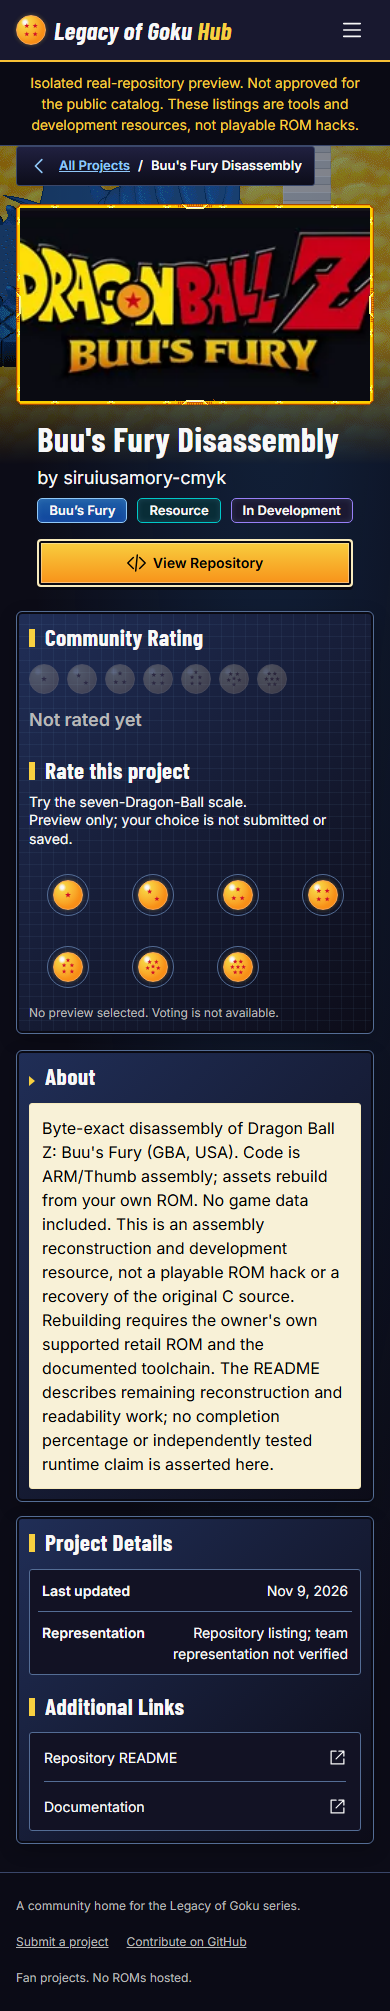
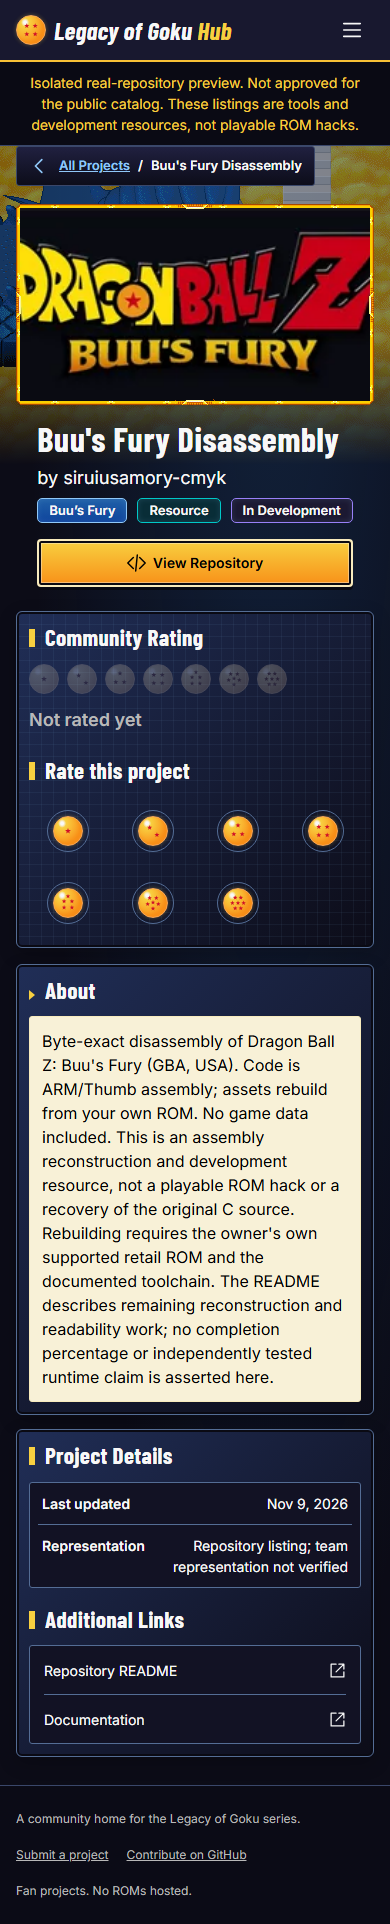
Simplify rating selector copy and center its heading

diff --git a/website/src/styles/site.css b/website/src/styles/site.css
@@ -818,19 +818,17 @@ dd a svg {
   display: grid;
   grid-template-columns: 1fr auto;
   gap: 0 24px;
-  align-items: start;
+  align-items: center;
+  align-self: stretch;
   min-width: 0;
 }
 .rating-selector h2 {
   grid-column: 1;
-}
-.rating-selector>p {
-  font-size: 14px;
-  max-width: 32ch;
+  margin: 0;
 }
 .rating-selector fieldset {
   grid-column: 2;
-  grid-row: 1/4;
+  grid-row: 1;
   align-self: center;
   border: 0;
   padding: 0;
@@ -882,13 +880,6 @@ dd a svg {
 }
 .rating-option:hover .rating-choice {
   border-color: var(--ice);
-}
-.rating-selector .rating-preview-result {
-  grid-column: 1;
-  margin-top: 8px;
-  max-width: none;
-  color: var(--muted);
-  font-size: 12px;
 }
 .detail-columns {
   display: grid;
@@ -1602,18 +1593,6 @@ dd a svg {
 }
 .detail-rating {
   padding-block: 12px;
-}
-.rating-selector h2 {
-  margin-bottom: 8px;
-}
-.rating-selector>p {
-  font-size: 13px;
-  line-height: 1.2;
-  max-width: none;
-}
-.rating-selector .rating-preview-result {
-  margin-top: 6px;
-  font-size: 11px;
 }
 .rating-choice {
   border: 0;

diff --git a/e2e-real/identity.pw.js b/e2e-real/identity.pw.js
@@ -93,6 +93,9 @@ test('portrait frames have transparent corner surfaces and one complete centered
       expect(Math.abs(offset)).toBeLessThan(1);
     }
     if(route!=='/'&&width>900){
+      await expect(page.locator('.rating-selector')).toHaveText('Rate this project');
+      const headingOffset=await page.locator('.rating-selector h2').evaluate(e=>{const r=e.getBoundingClientRect(),p=e.closest('.detail-rating').getBoundingClientRect();return r.y+r.height/2-p.y-p.height/2;});
+      expect(Math.abs(headingOffset)).toBeLessThan(.02);
       for(const ball of await page.locator('.rating-options .dragon-ball').all()){
         const offset=await ball.evaluate(e=>{const r=e.getBoundingClientRect(),p=e.closest('.detail-rating').getBoundingClientRect();return r.y+r.height/2-p.y-p.height/2;});
         expect(Math.abs(offset)).toBeLessThan(.02);

diff --git a/e2e/website.pw.js b/e2e/website.pw.js
@@ -41,7 +41,7 @@ test('seven-ball selection supports keyboard and pointer without persistence or 
   const first=page.getByRole('radio',{name:'1 Dragon Ball',exact:true});await first.focus();await page.keyboard.press('Space');await page.keyboard.press('ArrowRight');
   await expect(page.getByRole('radio',{name:'2 Dragon Balls',exact:true})).toBeChecked();
   await page.getByRole('radio',{name:'7 Dragon Balls',exact:true}).check();
-  await expect(page.locator('.rating-preview-result')).toHaveText('Preview: 7 of 7 Dragon Balls. Not submitted or saved.');
+  await expect(page.locator('.rating-selector')).toHaveText('Rate this project');
   expect(requests).toEqual([]);expect(await page.evaluate(()=>Object.keys(localStorage))).toEqual([]);
   await page.reload();await expect(page.getByRole('radio',{checked:true})).toHaveCount(0);
 });

diff --git a/docs/frontend/visual-identity/REFINEMENT.md b/docs/frontend/visual-identity/REFINEMENT.md
@@ -84,3 +84,5 @@ The latest visual polish replaces stretched fill with proportional cover sizing,
 Owner follow-up: LoG II detail crops are now centered (50% / 50%) inside the original frame. A game metadata selector scopes this change to LoG II; LoG I and Buu's Fury retain the existing 6% horizontal focal position. Frame dimensions, padding removal, scenery and ratings are unchanged. Current preview detail URLs are /projects/gh-1432341427/ (LoG I), /projects/gh-1429374563/ (LoG II), and /projects/gh-1398951057/ (Buu's Fury). Browser verification uses a separate loopback port so the owner's running preview on4325 remains available.
 
 Final logo-centering correction supersedes the prior whole-banner centering: all three disassembly images now use explicit logo-region crop rectangles in website/src/assets/art-direction.json, each pinned to its canonical source-cover SHA-256. The helper applies a rectangle only when the actual source bytes match; changed artwork falls back to the normal padding trim instead of receiving a stale crop. Proportional centered cover sizing positions each title logo inside the existing frame. Frame dimensions and placement remain untouched. Unit coverage verifies correct crop dimensions and stale-hash fallback; all 12 site tests and six responsive/accessibility/frame browser cases pass. Source images, canonical covers, project records, backgrounds and rating behavior remain unchanged.
+
+Rating copy cleanup: the selector now renders only Rate this project and the seven balls. Removed instructional/status paragraphs and their unused change-announcement handler/styles. Numeric names use aria-label attributes rather than DOM text, and the group references its heading. Native keyboard interaction and pageshow reset remain; no persistent voting was added. Desktop geometry tests verify both heading and all ball centers coincide with the rating panel midpoint. Responsive mobile stacking remains. Updated screenshots cover all three detail pages and released fixtures. Six real-preview and eight fixture/browser capture, keyboard and accessibility checks passed.

diff --git a/CHANGELOG.md b/CHANGELOG.md
@@ -82,3 +82,5 @@
 - Preserve banner proportions inside the unchanged detail frame using a logo-focused cover crop, replacing stretched fill sizing.
 
 - Centered the title-logo regions for all three disassembly detail images inside the original unchanged frames. Crop rectangles are pinned to source content hashes so updated artwork cannot receive stale crops.
+
+- Removed rating instructions, preview-status copy and text labels; centered Rate this project on the same desktop centerline as the balls while retaining accessible radio names and nonpersistent interaction.

diff --git a/README.md b/README.md
@@ -174,3 +174,5 @@ Frontend CI uses the hosted runner's installed Chrome with sandboxing enabled; l
 Detail artwork uses a padding-trimmed display derivative scaled proportionally to cover the original fixed portrait frame. Catalog covers and cards remain unchanged.
 
 All three disassembly detail images use source-hash-pinned logo crops, centered within the original unchanged frames.
+
+The rating selector shows only its heading and Dragon Balls. Accessible numeric names remain on the radio controls; selections remain local and reset on navigation.
